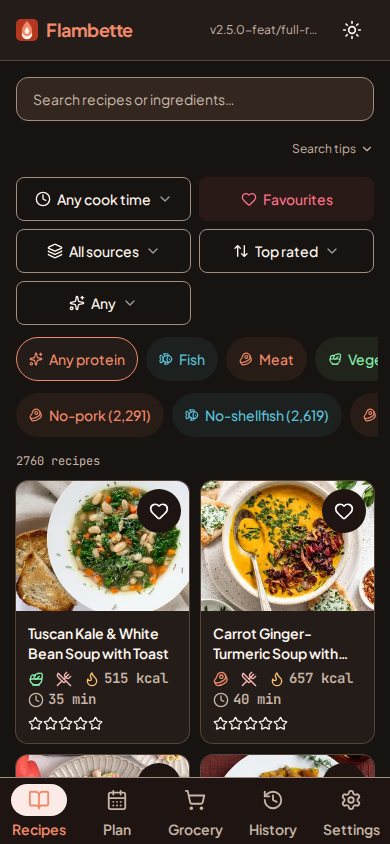
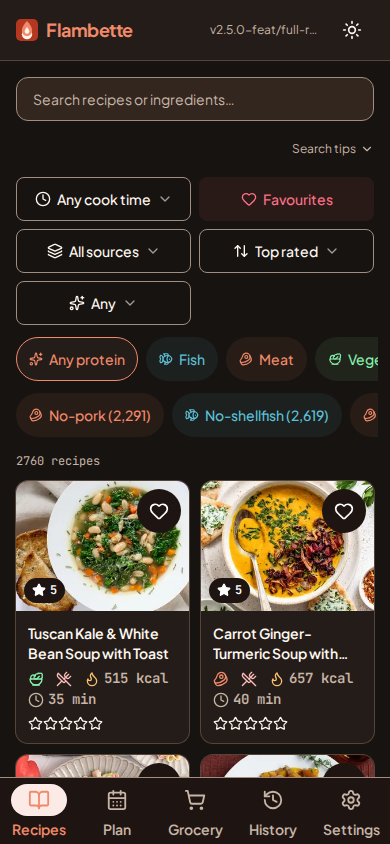
docs(design): regenerate the boards for slices 8-11; fix the extras heading's accessible name
- The extras GROUP heading holds its LABEL only — the count pill is a
  sibling — so the group's accessible name is exactly "Extra items"
  (ADR-0050 §1's pin) instead of "Extra items 3".
- The extras add-row pin is breakpoint-aware: phones keep the row under
  the group header, desktop relocates it to the sidebar's Quick Extra
  Entry (ADR-0071 delta 4).
- All 28 boards regenerated from the built bundle (both themes, desktop
  1280 + Pixel 7 390), and MANIFEST.md now describes what each surface
  is AFTER the composition pass plus the sweep's new success-fill
  section.

Changed region(s): [[0.0615, 0.6777, 0.1846, 0.7393], [0.5231, 0.6777, 0.6462, 0.7393]]

diff --git a/e2e/grocery-extras-and-shop.spec.ts b/e2e/grocery-extras-and-shop.spec.ts
@@ -145,7 +145,7 @@ test.describe('EXTRA ITEMS sub-sectioned by category (ADR-0050)', () => {
     await planFirstRecipe(page)
   })
 
-  test('an extra with a known category gets its OWN sub-section and stays in EXTRA ITEMS (never routed)', async ({ page }) => {
+  test('an extra with a known category gets its OWN sub-section and stays in EXTRA ITEMS (never routed)', async ({ page, isMobile }) => {
     // Unknown name, explicit category pick (the ADR-0012 override dropdown,
     // now the shared FilterDropdown per ADR-0050 §8).
     await input(page).fill('Sunshade tent')
@@ -193,9 +193,18 @@ test.describe('EXTRA ITEMS sub-sectioned by category (ADR-0050)', () => {
       }
     })
     expect(order.extraTop).toBeLessThan(order.firstSectionTop)
-    // Add-row sits directly under the EXTRA ITEMS header.
-    expect(order.addBarTop).toBeGreaterThan(order.headerBottom)
-    expect(order.addBarTop - order.headerBottom).toBeLessThan(80)
+    // The add-row is anchored to the extras group, but WHERE depends on the
+    // breakpoint (ADR-0071 delta 4): phones keep it directly under the
+    // group header; desktop relocates it into the sidebar's Quick Extra
+    // Entry. Either way it belongs to the extras group, never to a store
+    // section.
+    if (isMobile) {
+      expect(order.addBarTop).toBeGreaterThan(order.headerBottom)
+      expect(order.addBarTop - order.headerBottom).toBeLessThan(80)
+    } else {
+      await expect(page.getByTestId('grocery-sidebar')).toContainText('Quick extra entry')
+      await expect(page.getByTestId('extra-section').getByTestId('add-bar-input')).toHaveCount(0)
+    }
 
     await expectZeroMealimeRequests(page)
   })

diff --git a/src/components/GroceryTab.vue b/src/components/GroceryTab.vue
@@ -406,6 +406,9 @@ const shopperCount = computed(() => room.peers ?? 1)
   <div
   class="flex items-center gap-2 overflow-hidden rounded-xl bg-surface-raised px-3 py-2.5 ring-1 ring-border"
   >
+  <!-- The HEADING holds the label only: the count pill is a sibling, so
+  the group's accessible name is exactly "Extra items" (ADR-0050 §1's
+  pin) and a screen reader hears the count as the pill it is. -->
   <span class="min-w-0 flex-1 text-label-md font-semibold text-text">Extra items</span>
   <span
   class="shrink-0 rounded-full bg-surface-sunken px-2 py-0.5 font-mono-data text-label-sm tabular-nums text-text-muted"

diff --git a/docs/design/boards/MANIFEST.md b/docs/design/boards/MANIFEST.md
@@ -24,17 +24,20 @@ inspected is not visual verification).
 
 | Surface | Files | Notes |
 | --- | --- | --- |
-| Recipes (explore) | `recipes-{desktop,mobile}-{light,dark}.png` | header search well (desktop), quick-filter pills, 2/4-col photo grid, mono count |
+| Recipes (explore) | `recipes-{desktop,mobile}-{light,dark}.png` | header search well on EVERY tab (ADR-0070 Add2), quick-filter pills, 1/2/3/4-col photo grid, mono count, espresso favourite/rating discs on the photos |
 | Plan | `plan-{desktop,mobile}-{light,dark}.png` | meal rows, mono totals strip, Auto-Plan's one filled tomato |
-| Grocery | `grocery-{desktop,mobile}-{light,dark}.png` | aisle cards, N/M mono pills, extras group, Start shopping |
-| Shop | `shop-{desktop,mobile}-{light,dark}.png` | fullscreen, exit bar + honest N/M (pct%) progress |
-| Cooking | `cooking-{desktop,mobile}-{light,dark}.png` | chromeless 672px measure, one 20px step, timer row |
+| Grocery | `grocery-{desktop,mobile}-{light,dark}.png` | READING surface: editorial header with real derived counts, sticky progress card, aisle index cards (band + `(Aisle N)` + success-tinted N/M), name-left + mono qty badge, checked rows IN PLACE, desktop sidebar (contributing meals / zero-waste explainer / quick extra entry / room strip) |
+| Shop | `shop-{desktop,mobile}-{light,dark}.png` | TASK surface: fullscreen exit bar + honest N/M (pct%) progress, SAME band grammar as the grocery cards, checked rows still sink, success tick |
+| Cooking | `cooking-{desktop,mobile}-{light,dark}.png` | chromeless 672px measure, one 20px step, timer row, Finish filled `success` |
 | History | `history-{desktop,mobile}-{light,dark}.png` | head + sharing note + summary strip + period pills + honest empty state |
 | Settings | `settings-{desktop,mobile}-{light,dark}.png` | section cards at headline-sm, field wells, danger Leave outline |
 
 28 files. Dark captures use the app's own theme toggle (the `.dark` flip,
 ADR-0036) — no devtools emulation, so the boards show exactly what the
-toggle shows.
+toggle shows. These boards were regenerated for slices 8–11
+(2026-10-09): the grocery reading surface, the recipe-detail checklist
+and metadata strip, the rating disc and the persistent header well, and
+the cross-surface grammar sweep (ADR-0075).
 
 ## Contrast sweep
 
@@ -43,3 +46,8 @@ WCAG pass over the same surfaces/themes: computed fg/bg for every visible
 text and control keyline, tints composited (2026-10-10 run quoted in the
 slice-6/7 report — 0 FAIL both themes; worst text 5.05:1 light, 6.0:1 dark;
 worst control keyline 3.38:1 light, 5.36:1 dark).
+
+ADR-0072 added a dedicated section to that sweep: the `success` completion
+fill is measured off a REAL checked grocery row in both themes, against
+both things it has to clear — the `on-success` tick it carries and the
+paper surface the box sits on (non-text, 3:1).
